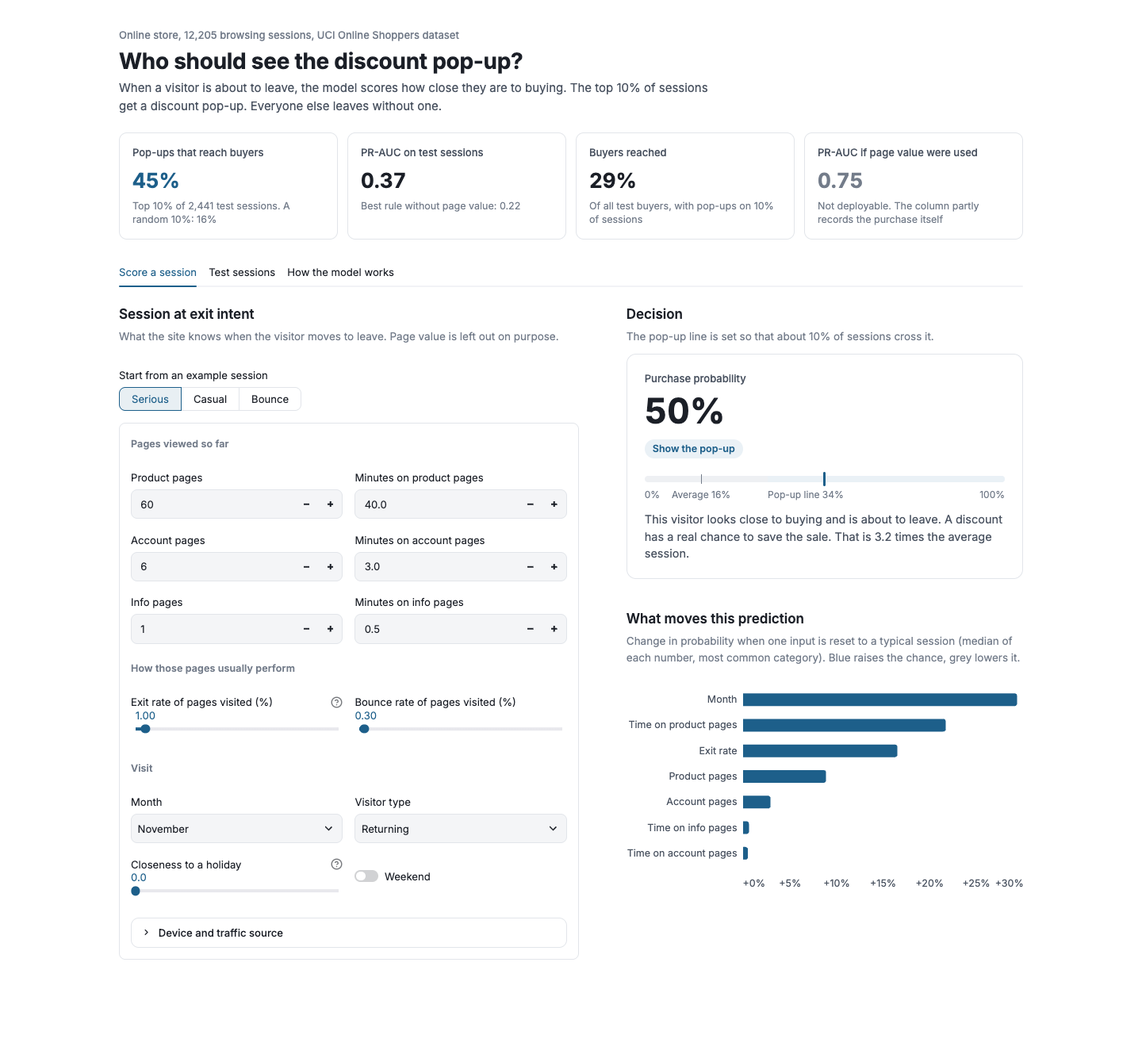
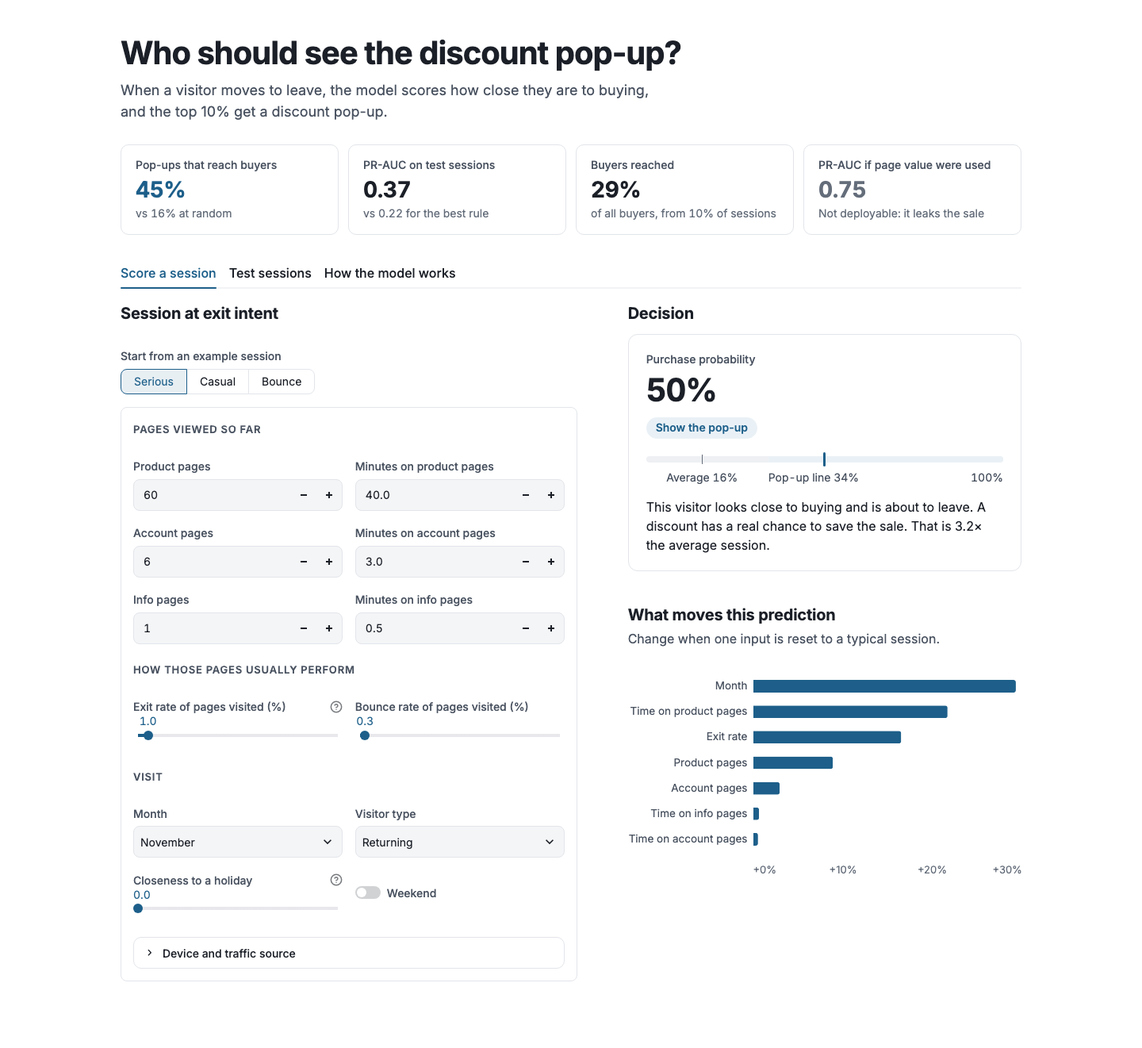
UI typography: one type scale, cut the small grey helper text, tabular numbers
Drop the eyebrow and most section notes, shorten KPI notes to one line, 13px caps for
group labels and table headers, nothing under 14px otherwise, darker secondary grey
(5:1 contrast), balanced headings, base font 16. Fix slider values wrapping and the
phone tab strip. Screenshots updated.

diff --git a/app/ui.py b/app/ui.py
@@ -47,100 +47,118 @@ DEVICE_DEFAULTS = {"OperatingSystems": 2, "Browser": 2, "Region": 1, "TrafficTyp
 
 CSS = """
 <style>
+/* Type scale: 13 (caps labels) / 14 small / 16 body (15 in tables) / 18 lead / 20 section / 28 numbers / 40 display */
 :root {
-  --accent: #1d5f8a; --accent-soft: #eaf1f6; --ink: #1b1f27; --ink-2: #4a5361; --ink-3: #737c8a;
+  --accent: #1d5f8a; --accent-soft: #eaf1f6; --ink: #1b1f27; --ink-2: #4a5361; --ink-3: #646d7a;
   --line: #e2e5ea; --line-faint: #eef0f3; --well: #f7f8fa;
 }
 html { -webkit-tap-highlight-color: transparent; -webkit-text-size-adjust: 100%; }
 header[data-testid="stHeader"], [data-testid="stToolbar"], [data-testid="stDecoration"],
 [data-testid="stStatusWidget"], #MainMenu, footer, .stDeployButton { display: none !important; }
-.block-container, [data-testid="stMainBlockContainer"] { max-width: 1200px; padding: 2.25rem 2rem 4rem; }
-[data-testid="stMarkdownContainer"] p { line-height: 1.55; }
+.block-container, [data-testid="stMainBlockContainer"] { max-width: 1200px; padding: 2.75rem 2rem 4rem; }
+[data-testid="stMarkdownContainer"] p { line-height: 1.5; text-wrap: pretty; }
+input { font-variant-numeric: tabular-nums; }
+[data-testid="stWidgetLabel"] p { font-size: 14px !important; font-weight: 500; color: var(--ink-2); }
 
-.app-head { margin-bottom: 22px; }
-.app-head .eyebrow { font-size: 13px; color: var(--ink-3); font-weight: 500; margin-bottom: 6px; }
-.app-head .title { font-size: 28px; line-height: 1.2; font-weight: 650; color: var(--ink); letter-spacing: -0.01em; }
-.app-head .sub { font-size: 15px; color: var(--ink-2); margin-top: 6px; max-width: 760px; line-height: 1.5; }
+.app-head { margin-bottom: 28px; }
+.app-head .title { font-size: 40px; line-height: 1.15; font-weight: 700; color: var(--ink); letter-spacing: -0.025em;
+  text-wrap: balance; }
+.app-head .sub { font-size: 18px; color: var(--ink-2); margin-top: 10px; max-width: 60ch; line-height: 1.5;
+  text-wrap: pretty; }
 
-.kpis { display: grid; grid-template-columns: repeat(4, minmax(0, 1fr)); gap: 12px; margin-bottom: 8px; }
-.kpi { border: 1px solid var(--line); border-radius: 10px; padding: 14px 16px 15px; background: #fff; }
-.kpi .label { font-size: 13px; color: var(--ink-2); font-weight: 500; }
-.kpi .value { font-size: 26px; font-weight: 650; color: var(--ink); margin-top: 4px; font-variant-numeric: tabular-nums; }
-.kpi .value .unit { font-size: 15px; color: var(--ink-3); font-weight: 500; }
-.kpi .note { font-size: 12.5px; color: var(--ink-3); margin-top: 2px; line-height: 1.4; }
+.kpis { display: grid; grid-template-columns: repeat(4, minmax(0, 1fr)); gap: 12px; margin-bottom: 12px; }
+.kpi { border: 1px solid var(--line); border-radius: 10px; padding: 16px 18px; background: #fff; }
+.kpi .label { font-size: 14px; color: var(--ink-2); font-weight: 500; line-height: 1.3; }
+.kpi .value { font-size: 28px; font-weight: 650; color: var(--ink); margin-top: 6px; line-height: 1.15;
+  letter-spacing: -0.015em; font-variant-numeric: tabular-nums; }
+.kpi .note { font-size: 14px; color: var(--ink-3); margin-top: 4px; line-height: 1.4; font-variant-numeric: tabular-nums;
+  white-space: nowrap; overflow: hidden; text-overflow: ellipsis; }
 .kpi.lead .value { color: var(--accent); }
 .kpi.muted .value { color: var(--ink-3); }
 
 div[data-baseweb="tab-list"] { gap: 4px; border-bottom: 1px solid var(--line); }
 button[data-baseweb="tab"] { padding: 10px 14px; user-select: none; -webkit-user-select: none; touch-action: manipulation; }
-button[data-baseweb="tab"] p { font-size: 15px !important; font-weight: 500; }
+button[data-baseweb="tab"] p, [data-testid="stTab"] p { font-size: 16px !important; font-weight: 500; }
 div[data-baseweb="tab-highlight"] { height: 2px; }
 div[data-baseweb="tab-border"] { display: none; }
-[data-testid="stTabs"] [data-baseweb="tab-panel"] { padding-top: 22px; }
+[data-testid="stTabs"] [data-baseweb="tab-panel"] { padding-top: 26px; }
 button, [role="button"] { touch-action: manipulation; }
+[data-testid="stTab"] { white-space: nowrap; flex: none; }
+div[data-baseweb="tab-list"], [role="tablist"] { overflow-x: auto; scrollbar-width: none; }
+[data-testid="stSliderThumbValue"] { width: auto !important; white-space: nowrap; }
+[data-testid="stSliderThumbValue"] p, [data-testid="stSliderTickBar"] p { white-space: nowrap; font-size: 14px !important;
+  font-variant-numeric: tabular-nums; }
 
-.section-title { font-size: 17px; font-weight: 600; color: var(--ink); margin: 6px 0 4px; }
-.section-note { font-size: 13.5px; color: var(--ink-3); margin-bottom: 12px; line-height: 1.5; }
-.group-label { font-size: 12.5px; font-weight: 600; color: var(--ink-3); margin: 2px 0 6px; letter-spacing: 0.01em; }
+.section-title { font-size: 20px; font-weight: 650; color: var(--ink); margin: 4px 0 14px; line-height: 1.15;
+  letter-spacing: -0.01em; text-wrap: balance; }
+.section-title.with-note { margin-bottom: 6px; }
+.section-note { font-size: 16px; color: var(--ink-2); margin-bottom: 16px; line-height: 1.5; max-width: 60ch;
+  text-wrap: pretty; }
+.group-label { font-size: 13px; font-weight: 600; color: var(--ink-2); margin: 2px 0 8px; letter-spacing: 0.06em;
+  text-transform: uppercase; }
+.note { font-size: 14px; color: var(--ink-2); line-height: 1.5; margin-top: 12px; max-width: 75ch; text-wrap: pretty;
+  font-variant-numeric: tabular-nums; }
 
-.pill { display: inline-block; font-size: 12.5px; font-weight: 600; padding: 4px 10px; border-radius: 999px;
+.pill { display: inline-block; font-size: 14px; font-weight: 600; padding: 4px 12px; border-radius: 999px;
   white-space: nowrap; line-height: 1.3; }
 .pill.accent { background: var(--accent-soft); color: var(--accent); }
 .pill.plain { background: var(--well); color: var(--ink-2); border: 1px solid var(--line); }
 
 .result-card { border: 1px solid var(--line); border-radius: 12px; padding: 20px 22px; }
-.result-card .label { font-size: 13px; color: var(--ink-2); font-weight: 500; }
-.result-card .big { font-size: 44px; font-weight: 650; color: var(--ink); line-height: 1.1; margin: 6px 0 10px;
-  font-variant-numeric: tabular-nums; }
-.result-card .action { font-size: 14.5px; color: var(--ink-2); margin-top: 14px; line-height: 1.5; }
-.scale { position: relative; height: 8px; border-radius: 4px; background: var(--line-faint); margin: 22px 0 6px; }
+.result-card .label { font-size: 14px; color: var(--ink-2); font-weight: 500; }
+.result-card .big { font-size: 40px; font-weight: 700; color: var(--ink); line-height: 1.1; margin: 6px 0 12px;
+  letter-spacing: -0.025em; font-variant-numeric: tabular-nums; }
+.result-card .action { font-size: 16px; color: var(--ink); margin-top: 16px; line-height: 1.5; text-wrap: pretty; }
+.scale { position: relative; height: 8px; border-radius: 4px; background: var(--line-faint); margin: 22px 0 8px; }
 .scale .above { position: absolute; top: 0; bottom: 0; right: 0; background: var(--accent-soft); border-radius: 0 4px 4px 0; }
 .scale .mark { position: absolute; top: -5px; width: 3px; height: 18px; border-radius: 2px; background: var(--accent); }
 .scale .avg { position: absolute; top: -2px; width: 1px; height: 12px; background: var(--ink-3); }
-.scale-labels { position: relative; height: 16px; font-size: 12px; color: var(--ink-3); }
+.scale-labels { position: relative; height: 20px; font-size: 14px; color: var(--ink-2); font-variant-numeric: tabular-nums; }
 .scale-labels span { position: absolute; white-space: nowrap; }
 
 .stats { display: grid; grid-template-columns: repeat(4, minmax(0, 1fr)); gap: 0; border: 1px solid var(--line);
-  border-radius: 10px; margin: 4px 0 18px; }
-.stat { padding: 12px 16px; border-left: 1px solid var(--line-faint); }
+  border-radius: 10px; margin: 4px 0 20px; }
+.stat { padding: 14px 18px; border-left: 1px solid var(--line-faint); }
 .stat:first-child { border-left: none; }
-.stat .k { font-size: 12.5px; color: var(--ink-3); font-weight: 500; }
-.stat .v { font-size: 20px; font-weight: 650; color: var(--ink); margin-top: 2px; font-variant-numeric: tabular-nums; }
+.stat .k { font-size: 14px; color: var(--ink-2); font-weight: 500; }
+.stat .v { font-size: 28px; font-weight: 650; color: var(--ink); margin-top: 4px; line-height: 1.15; letter-spacing: -0.015em;
+  font-variant-numeric: tabular-nums; }
 .stat .v.accent { color: var(--accent); }
-.stat .s { font-size: 12.5px; color: var(--ink-3); margin-top: 1px; }
+.stat .s { font-size: 14px; color: var(--ink-3); margin-top: 2px; font-variant-numeric: tabular-nums; }
 
 .tbl-wrap { overflow-x: auto; -webkit-overflow-scrolling: touch; overscroll-behavior-x: contain; }
-table.tbl { width: 100%; border-collapse: collapse; font-size: 14px; color: var(--ink); }
-table.tbl th { font-size: 12.5px; font-weight: 500; color: var(--ink-3); text-align: left; padding: 8px 12px;
-  border-bottom: 1px solid var(--line); white-space: nowrap; }
-table.tbl td { padding: 10px 12px; border-bottom: 1px solid var(--line-faint); vertical-align: middle; }
+table.tbl { width: 100%; border-collapse: collapse; font-size: 15px; color: var(--ink); font-variant-numeric: tabular-nums; }
+table.tbl th { font-size: 13px; font-weight: 600; color: var(--ink-2); text-align: left; padding: 8px 12px;
+  border-bottom: 1px solid var(--line); white-space: nowrap; letter-spacing: 0.06em; text-transform: uppercase; }
+table.tbl td { padding: 10px 12px; border-bottom: 1px solid var(--line-faint); vertical-align: middle; line-height: 1.4; }
 table.tbl tr:last-child td { border-bottom: none; }
-table.tbl .num { text-align: right; font-variant-numeric: tabular-nums; white-space: nowrap; }
+table.tbl .num { text-align: right; white-space: nowrap; }
 table.tbl th.num { text-align: right; }
 table.tbl .dim { color: var(--ink-3); }
+table.tbl td.dim { font-size: 14px; }
 table.tbl .name { font-weight: 500; }
 table.tbl tr.hl td { background: var(--accent-soft); font-weight: 600; }
-table.tbl tr.group td { font-size: 12.5px; font-weight: 600; color: var(--ink-3); background: var(--well);
-  padding-top: 7px; padding-bottom: 7px; }
+table.tbl tr.group td { font-size: 13px; font-weight: 600; color: var(--ink-2); background: var(--well);
+  padding-top: 8px; padding-bottom: 8px; letter-spacing: 0.06em; text-transform: uppercase; }
 table.tbl tr.cut td { border-bottom: 2px solid var(--accent); }
 .prob { display: flex; align-items: center; justify-content: flex-end; gap: 10px; }
 .prob .track { width: 110px; height: 6px; border-radius: 3px; background: var(--line-faint); overflow: hidden; flex: none; }
 .prob .fill { height: 100%; background: var(--accent); border-radius: 3px; }
 .prob .fill.low { background: var(--ink-3); opacity: 0.45; }
-.prob .val { width: 38px; text-align: right; }
-.yes { white-space: nowrap; display: inline-flex; align-items: center; gap: 6px; font-size: 13px; font-weight: 600; color: var(--accent); }
+.prob .val { width: 40px; text-align: right; }
+.yes { white-space: nowrap; display: inline-flex; align-items: center; gap: 6px; font-size: 14px; font-weight: 600; color: var(--accent); }
 .yes::before { content: ""; width: 7px; height: 7px; border-radius: 50%; background: var(--accent); }
-.no { font-size: 13px; color: var(--ink-3); }
+.no { font-size: 14px; color: var(--ink-3); }
 
-.facts { margin: 0; padding-left: 18px; color: var(--ink-2); font-size: 14px; line-height: 1.55; }
-.facts li { margin-bottom: 6px; }
-.decision { border: 1px solid var(--line); border-radius: 12px; padding: 16px 18px; }
-.decision .row { display: flex; justify-content: space-between; gap: 12px; padding: 7px 0;
-  border-bottom: 1px solid var(--line-faint); font-size: 14px; color: var(--ink-2); }
+.facts { margin: 0; padding-left: 18px; color: var(--ink); font-size: 16px; line-height: 1.5; }
+.facts li { margin-bottom: 8px; text-wrap: pretty; }
+.decision { border: 1px solid var(--line); border-radius: 12px; padding: 8px 18px; }
+.decision .row { display: flex; justify-content: space-between; gap: 12px; padding: 9px 0;
+  border-bottom: 1px solid var(--line-faint); font-size: 15px; color: var(--ink-2); }
 .decision .row:last-child { border-bottom: none; }
 .decision .row b { color: var(--ink); font-weight: 600; font-variant-numeric: tabular-nums; white-space: nowrap; }
-.foot { font-size: 12.5px; color: var(--ink-3); margin-top: 28px; padding-top: 14px; border-top: 1px solid var(--line-faint);
-  line-height: 1.5; }
+.foot { font-size: 14px; color: var(--ink-3); margin-top: 32px; padding-top: 14px; border-top: 1px solid var(--line-faint);
+  line-height: 1.5; text-wrap: pretty; }
 [data-testid="stExpander"] details { border-radius: 10px; }
 [data-testid="stExpander"] summary p { font-weight: 500; }
 
@@ -157,18 +175,23 @@ table.tbl tr.cut td { border-bottom: 2px solid var(--accent); }
 @media (max-width: 640px) {
   /* on a phone the decision goes above the form, so the answer is the first thing you see */
   [data-testid="stHorizontalBlock"]:has(.result-card) > div:nth-child(2) { order: -1; }
-  .block-container, [data-testid="stMainBlockContainer"] { padding: 1.25rem 1rem 3rem; }
-  .app-head .title { font-size: 23px; }
-  .app-head .sub { font-size: 14.5px; }
+  .block-container, [data-testid="stMainBlockContainer"] { padding: 1.5rem 1rem 3rem; }
+  .app-head .title { font-size: 28px; }
+  .app-head .sub { font-size: 17px; }
+  [data-testid="stTab"] p { font-size: 14px !important; }
+  [data-testid="stTab"] { padding-left: 0 !important; padding-right: 0 !important; }
+  [role="tablist"] { gap: 0 !important; justify-content: space-between; }
+  table.tbl { font-size: 14px; }
+  table.tbl th { letter-spacing: 0; text-transform: none; }
   .hide-sm { display: none; }
   .prob .track { display: none; }
   table.tbl.wide { min-width: 520px; }
-  table.tbl { font-size: 13.5px; }
   table.tbl td, table.tbl th { padding: 9px 6px; }
-  .kpi { padding: 12px 12px 13px; }
-  .kpi .value { font-size: 22px; }
-  .result-card .big { font-size: 38px; }
-  .stat .v { font-size: 18px; }
+  .kpi { padding: 14px 14px; }
+  .kpi .note { white-space: normal; }
+  .stat { padding: 12px 14px; }
+  .stat .v { font-size: 20px; }
+  .kpi .value { font-size: 28px; }
 }
 </style>
 """
@@ -248,20 +271,19 @@ base_rate = test_m["prevalence"]
 st.html(CSS)
 st.html(f"""
 <div class="app-head">
-  <div class="eyebrow">Online store, 12,205 browsing sessions, UCI Online Shoppers dataset</div>
   <div class="title">Who should see the discount pop-up?</div>
-  <div class="sub">When a visitor is about to leave, the model scores how close they are to buying. The top 10% of
-  sessions get a discount pop-up. Everyone else leaves without one.</div>
+  <div class="sub">When a visitor moves to leave, the model scores how close they are to buying, and the top 10%
+  get a discount pop-up.</div>
 </div>
 <div class="kpis">
   <div class="kpi lead"><div class="label">Pop-ups that reach buyers</div><div class="value">{pct(test_m['precision_at_10pct'])}</div>
-    <div class="note">Top 10% of {len(tests):,} test sessions. A random 10%: {pct(base_rate)}</div></div>
+    <div class="note">vs {pct(base_rate)} at random</div></div>
   <div class="kpi"><div class="label">PR-AUC on test sessions</div><div class="value">{test_m['pr_auc']:.2f}</div>
-    <div class="note">Best rule without page value: {rule_b['test_pr_auc']:.2f}</div></div>
+    <div class="note">vs {rule_b['test_pr_auc']:.2f} for the best rule</div></div>
   <div class="kpi"><div class="label">Buyers reached</div><div class="value">{pct(test_m['recall_at_10pct'])}</div>
-    <div class="note">Of all test buyers, with pop-ups on 10% of sessions</div></div>
+    <div class="note">of all buyers, from 10% of sessions</div></div>
   <div class="kpi muted"><div class="label">PR-AUC if page value were used</div><div class="value">{with_pv['test_pr_auc']:.2f}</div>
-    <div class="note">Not deployable. The column partly records the purchase itself</div></div>
+    <div class="note">Not deployable: it leaks the sale</div></div>
 </div>
 """)
 
@@ -285,9 +307,7 @@ if "ProductRelated" not in st.session_state:
 with tab_score:
     left, right = st.columns([1.15, 1], gap="large")
     with left:
-        st.html('<div class="section-title">Session at exit intent</div>'
-                '<div class="section-note">What the site knows when the visitor moves to leave. '
-                'Page value is left out on purpose.</div>')
+        st.html('<div class="section-title">Session at exit intent</div>')
         st.segmented_control("Start from an example session", list(PRESETS), key="preset", on_change=apply_preset)
         with st.container(border=True):
             st.html('<div class="group-label">Pages viewed so far</div>')
@@ -302,9 +322,9 @@ with tab_score:
             b.number_input("Minutes on info pages", min_value=0.0, max_value=45.0, step=0.5, format="%.1f", key="info_min")
             st.html('<div class="group-label" style="margin-top:6px">How those pages usually perform</div>')
             a, b = st.columns(2)
-            a.slider("Exit rate of pages visited (%)", 0.0, 20.0, step=0.5, key="exit_pct",
+            a.slider("Exit rate of pages visited (%)", 0.0, 20.0, step=0.5, format="%.1f", key="exit_pct",
                      help="Google Analytics: how often other visitors leave the site from these pages")
-            b.slider("Bounce rate of pages visited (%)", 0.0, 20.0, step=0.5, key="bounce_pct")
+            b.slider("Bounce rate of pages visited (%)", 0.0, 20.0, step=0.5, format="%.1f", key="bounce_pct")
             st.html('<div class="group-label" style="margin-top:6px">Visit</div>')
             a, b = st.columns(2)
             a.selectbox("Month", config.MONTHS, format_func=lambda m: MONTH_NAMES[m], key="Month")
@@ -351,7 +371,6 @@ with tab_score:
     with right:
         st.html(f"""
 <div class="section-title">Decision</div>
-<div class="section-note">The pop-up line is set so that about 10% of sessions cross it.</div>
 <div class="result-card">
   <div class="label">Purchase probability</div>
   <div class="big">{pct(p)}</div>
@@ -362,17 +381,15 @@ with tab_score:
     <div class="mark" style="left:calc({min(p, 0.995) * 100:.1f}% - 1px)"></div>
   </div>
   <div class="scale-labels">
-    <span class="hide-sm" style="left:0">0%</span>
     <span style="left:{base_rate * 100:.1f}%;transform:translateX(-50%)">Average {pct(base_rate)}</span>
     <span style="left:{threshold * 100:.1f}%">Pop-up line {pct(threshold)}</span>
     <span class="hide-sm" style="right:0">100%</span>
   </div>
-  <div class="action">{esc(action)} That is {times_avg:.1f} times the average session.</div>
+  <div class="action">{esc(action)} That is {times_avg:.1f}&times; the average session.</div>
 </div>
 """)
-        st.html('<div class="section-title" style="margin-top:22px">What moves this prediction</div>'
-                '<div class="section-note">Change in probability when one input is reset to a typical session '
-                '(median of each number, most common category). Blue raises the chance, grey lowers it.</div>')
+        st.html('<div class="section-title with-note" style="margin-top:28px">What moves this prediction</div>'
+                '<div class="section-note">Change when one input is reset to a typical session.</div>')
         if contrib.empty:
             st.caption("No single input moves the probability by more than half a point.")
         else:
@@ -383,15 +400,15 @@ with tab_score:
                                                                range=[ACCENT, MUTED]), legend=None),
                 tooltip=[alt.Tooltip("input:N", title="Input"), alt.Tooltip("change:Q", format="+.1%", title="Change")],
             ).properties(height=34 * len(contrib) + 36).configure_view(stroke=None).configure_axis(
-                grid=False, domainColor="#e2e5ea", labelColor="#4a5361", labelFontSize=12.5, tickColor="#e2e5ea",
-                labelFont="Inter")
+                grid=False, domainColor="#e2e5ea", labelColor="#4a5361", labelFontSize=13.5, tickColor="#e2e5ea",
+                labelFont="Inter").configure_axisX(labelFontSize=13, labelColor="#646d7a")
             st.altair_chart(chart, width="stretch")
 
 # ---------------- Test sessions ----------------
 with tab_tests:
-    st.html(f'<div class="section-title">{len(tests):,} held-out sessions, ranked by the model</div>'
-            '<div class="section-note">The model never saw these sessions while training. Pick a pop-up budget and '
-            'see who would get one, and who really bought.</div>')
+    st.html(f'<div class="section-title with-note">{len(tests):,} held-out sessions, ranked by the model</div>'
+            '<div class="section-note">Never seen in training. Pick a budget to see who gets a pop-up, '
+            'and who really bought.</div>')
     c1, c2, c3 = st.columns([1.2, 1, 1])
     budget = c1.slider("Pop-up budget, share of sessions", 5, 30, 10, step=1, format="%d%%")
     month_pick = c2.selectbox("Month", ["All months"] + config.MONTHS,
@@ -416,11 +433,11 @@ with tab_tests:
     st.html(f"""
 <div class="stats">
   <div class="stat"><div class="k">Pop-ups shown</div><div class="v">{n_popups:,}</div>
-    <div class="s">{budget}% of {len(shown):,} sessions</div></div>
+    <div class="s">{budget}% of {len(shown):,}</div></div>
   <div class="stat"><div class="k">Went to buyers</div><div class="v accent">{hits:,}</div>
     <div class="s">{pct(precision)} of pop-ups</div></div>
   <div class="stat"><div class="k">At random</div><div class="v">{random_hits:,.0f}</div>
-    <div class="s">Same budget, no model</div></div>
+    <div class="s">same budget, no model</div></div>
   <div class="stat"><div class="k">Buyers reached</div><div class="v">{pct(recall)}</div>
     <div class="s">of {buyers_total:,} who bought</div></div>
 </div>
@@ -450,15 +467,15 @@ with tab_tests:
         if st.button(f"Show {min(page_size, len(shown) - rows_to_show)} more"):
             st.session_state["show_rows"] = rows_to_show + page_size
             st.rerun()
-    st.caption(f"Ranked by purchase probability. With the whole test set, the fixed pop-up line ({pct(threshold)}) "
-               f"flags {pct(test_m['flag_rate_at_threshold'], 1)} of sessions, close to the planned 10%. In November "
-               "it would flag far more, so the line has to be re-set each month (see the monitoring runbook).")
+    st.html(f'<div class="note">The fixed pop-up line ({pct(threshold)}) flags '
+            f'{pct(test_m["flag_rate_at_threshold"], 1)} of all test sessions, close to the planned 10%. '
+            'November would flag far more, so the line is re-set each month.</div>')
 
 # ---------------- How the model works ----------------
 with tab_how:
-    st.html('<div class="section-title">Baselines against the models</div>'
-            '<div class="section-note">CV is 5 stratified folds on the 9,764 training sessions. Test is the 2,441 '
-            'held-out sessions, opened once. Precision and recall are at a 10% pop-up budget.</div>')
+    st.html('<div class="section-title with-note">Baselines against the models</div>'
+            '<div class="section-note">CV: 5 folds on 9,764 training sessions. Test: 2,441 held-out sessions, '
+            'opened once. Precision and recall at a 10% budget.</div>')
     final_run = results[results["kind"] == "final"].index[0]
     groups = [
         ("Without page value (deployable)", [
@@ -497,15 +514,14 @@ with tab_how:
             classes.append("hl" if run == final_run else "")
     st.html(table_html([("Approach", ""), ("CV PR-AUC", "num hide-sm"), ("Test PR-AUC", "num"),
                         ("Test ROC-AUC", "num hide-sm"), ("Precision", "num"), ("Recall", "num hide-sm")], rows, classes))
-    st.caption(f"Accuracy is not shown on purpose. \"Nobody buys\" is {pct(results.loc['baseline_constant_nobody_buys', 'test_accuracy_at_0_5'])} "
-               "accurate and finds no one.")
+    st.html(f'<div class="note">Accuracy is left out on purpose: &ldquo;nobody buys&rdquo; is '
+            f'{pct(results.loc["baseline_constant_nobody_buys", "test_accuracy_at_0_5"])} accurate and finds no one.</div>')
 
     st.write("")
     left, right = st.columns([1.1, 1], gap="large")
     with left:
-        st.html('<div class="section-title">What the model relies on</div>'
-                '<div class="section-note">Drop in test PR-AUC when one input is shuffled. Exit rate, time on product '
-                'pages and the month do most of the work. The six inputs not shown move it by less than 0.001.</div>')
+        st.html('<div class="section-title with-note">What the model relies on</div>'
+                '<div class="section-note">Drop in test PR-AUC when one input is shuffled.</div>')
         importance = importance_table().sort_values("importance_mean", ascending=False).head(10)
         importance["input"] = importance["feature"].map(INPUT_LABELS)
         importance["shown"] = importance["importance_mean"].clip(lower=0)
@@ -516,8 +532,8 @@ with tab_how:
                      alt.Tooltip("importance_mean:Q", format=".3f", title="Mean drop"),
                      alt.Tooltip("importance_std:Q", format=".3f", title="Std")],
         ).properties(height=320).configure_view(stroke=None).configure_axis(
-            grid=False, domainColor="#e2e5ea", labelColor="#4a5361", labelFontSize=12.5, tickColor="#e2e5ea",
-            labelFont="Inter")
+            grid=False, domainColor="#e2e5ea", labelColor="#4a5361", labelFontSize=13.5, tickColor="#e2e5ea",
+            labelFont="Inter").configure_axisX(labelFontSize=13, labelColor="#646d7a")
         st.altair_chart(chart, width="stretch")
     with right:
         leak = pd.read_csv(config.REPORTS_DIR / "leakage_check_pagevalues.csv", index_col=0)["value"]
@@ -525,9 +541,9 @@ with tab_how:
         nov_flag = slices.loc[("Month", "Nov"), "flag_rate"]
         feb_oct_flag = slices.loc[("Season", "Feb-Oct"), "flag_rate"]
         st.html(f"""
-<div class="section-title">Why page value is left out</div>
-<div class="section-note">Google Analytics gives a page value when a purchase follows the page in the same session.
-So a buying session's own purchase feeds the number. At exit intent that purchase has not happened yet.</div>
+<div class="section-title with-note">Why page value is left out</div>
+<div class="section-note">A page gets a value when a purchase follows it in the same session, so the number already
+contains the sale we are trying to predict.</div>
 <div class="decision">
   <div class="row"><span>Buy rate when page value is above zero</span><b>{pct(leak['buy_rate_pagevalue_above_0'])}</b></div>
   <div class="row"><span>Buy rate when it is zero</span><b>{pct(leak['buy_rate_pagevalue_0'])}</b></div>
@@ -535,7 +551,7 @@ So a buying session's own purchase feeds the number. At exit intent that purchas
   <div class="row"><span>Non-buyers with a page value</span><b>{pct(leak['share_of_nonbuyers_with_pagevalue'])}</b></div>
   <div class="row"><span>CV PR-AUC without it, with it</span><b>{leak['best_cv_pr_auc_without_pagevalues']:.2f}, {leak['best_cv_pr_auc_with_pagevalues']:.2f}</b></div>
 </div>
-<div class="section-title" style="margin-top:20px">Limitations</div>
+<div class="section-title" style="margin-top:28px">Limitations</div>
 <ul class="facts">
   <li>Every counter covers the whole session, not just the part before exit intent, so all scores are a bit optimistic.</li>
   <li>The model predicts who buys, not who buys because of the pop-up. Only a live test with a hold-out group can measure that.</li>
@@ -544,6 +560,6 @@ So a buying session's own purchase feeds the number. At exit intent that purchas
 </ul>
 """)
 
-    st.html(f"""<div class="foot">Data: Sakar, Polat, Katircioglu and Kastro (2019), Online Shoppers Purchasing Intention
+    st.html(f"""<div class="foot">Data: 12,205 sessions from one online store. Sakar, Polat, Katircioglu and Kastro (2019), Online Shoppers Purchasing Intention
 Dataset, UCI Machine Learning Repository (id 468), CC BY 4.0, accessed 26 November 2026. Model {esc(meta['model_version'])}
 ({esc(meta['model_family'].replace('_', ' '))}), MLflow run {esc(meta['mlflow_run_id'][:8])}, pop-up line {threshold:.3f}.</div>""")
